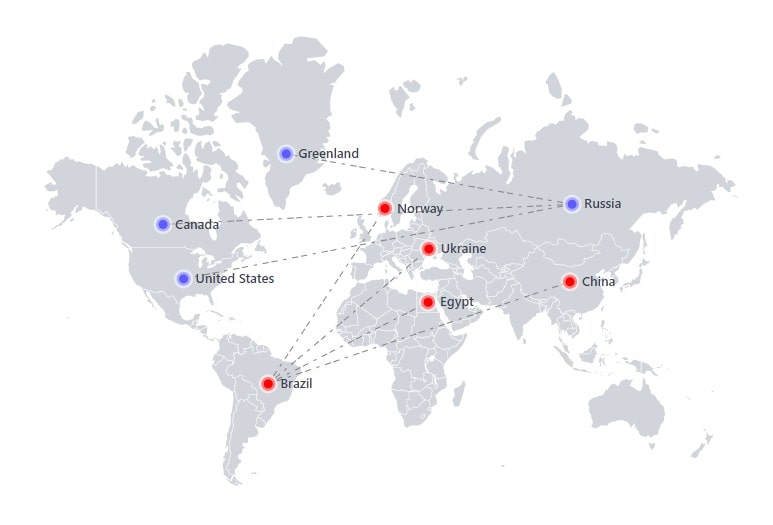
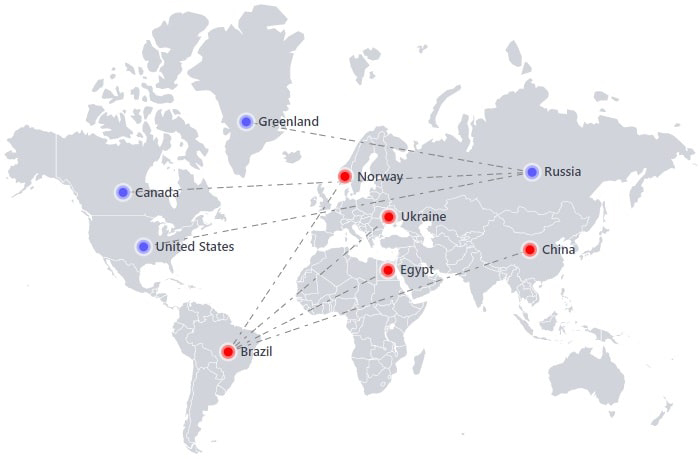
chore: update readme and jsvectormap photo sample

diff --git a/README.md b/README.md
@@ -1,53 +1,53 @@
+<p align="center">
+  <a href="https://themustafaomar.com/open-source/jsvectormap">
+    <img src="assets/images/jsvectormap.jpg" alt="Jsvectormap sample" width="500" />
+  </a>
+</p>
+
+<h3 align="center">Jsvectormap</h3>
+
+<p align="center">
+  A lightweight Javascript library for creating interactive maps and pretty data visualization.
+  <br>
+  <br>
+  <a href="https://themustafaomar.com/open-source/jsvectormap"><strong>Explore docs</strong></a>
+  .
+  <a href="https://github.com/themustafaomar/jsvectormap/issues/new"><strong>Report bug</strong></a>
+  ·
+  <a href="https://themustafaomar.com/open-source/jsvectormap"><strong>View demo</strong></a>
+  ·
+  <a href="https://github.com/themustafaomar/jsvectormap/archive/master.zip"><strong>Download</strong></a>
+</p>
+
 # Jsvectormap
-A lightweight Javascript library for creating interactive maps and pretty data visualization.
 
-This project is a deeply modified version of [jvectormap](https://github.com/bjornd/jvectormap)<br>
-This was created to help developers who aren't using jQuery in their projects.
+Bringing data to life with interactive maps
 
-Jsvectormap supports all modern brownsers including IE9+<br>
+This project is a deeply modified version of [jvectormap](https://github.com/bjornd/jvectormap) and was created to help developers who aren't using jQuery anymore in their projects.
 
-<strong><a href="https://3iw9b.csb.app">View Demo</a> | <a href="https://github.com/themustafaomar/jsvectormap/archive/master.zip">Download ZIP</a> | <a href="https://themustafaomar.com/open-source/jsvectormap/docs/introduction">Documentation</a></strong>
+Jsvectormap supports all modern brownsers including IE9+
 
+<a href="https://www.npmjs.com/package/jsvectormap"><img src="https://img.shields.io/npm/l/jsvectormap.svg?sanitize=true" alt="License"></a>
+<a href="https://npmcharts.com/compare/jsvectormap?minimal=true"><img src="https://img.shields.io/npm/dm/jsvectormap.svg?sanitize=true" alt="Downloads"></a>
+<img src="https://img.shields.io/npm/v/jsvectormap.svg?sanitize=true" alt="Version">
+<img src="https://img.shields.io/bundlephobia/min/jsvectormap" alt="Minified">
+<img src="https://img.shields.io/bundlephobia/minzip/jsvectormap" alt="Minizipped">
 
-<img src="assets/images/jsvectormap.jpg" />
+## What's interactive maps
 
-## Installation
+* Interactive maps are powerful tools for presentation.
+* The ability to create layers of information that can be shown or hidden at the click of a button on a region or maybe a marker.
+* Data can be quickly updated, and these updates made transparent to users. 
+* Zoom functions that allow users to focus on either the details of a particular region, or to gain a quick overview of a wider area.
+
+## Quick start
+
 Installing via npm
 ```js
 npm i jsvectormap
 ```
 
-### Download
-You can download the latest version from the Github: [Download](https://github.com/themustafaomar/jsvectormap/archive/master.zip) or clone the repository:
-```
-git clone https://github.com/themustafaomar/jsvectormap.git
-```
-
-### Using CDN links
-```html
-<link rel="stylesheet" href="https://unpkg.com/jsvectormap@1.2.0/dist/css/jsvectormap.min.css" />
-<script src="https://unpkg.com/jsvectormap"></script>
-<script src="https://unpkg.com/jsvectormap/dist/maps/world.js"></script>
-```
-
-## Usage
-```html
-<link rel="stylesheet" href="dist/css/jsvectormap.min.css" />
-<script src="dist/js/jsvectormap.min.js"></script>
-<script src="dist/maps/world.js"></script>
-
-<div id="map"></div>
-
-<script>
-  var map = new jsVectorMap({
-    selector: '#map',
-    map: 'world',
-  });
-</script>
-```
-
-#### Using CLI
-If you're using webpack or something like that you'll need to import the map you want to work with after importing the library.
+import your preferred map you want to work with, after importing the `jsvectormap`
 
 ```js
 @import 'jsvectormap'
@@ -59,25 +59,12 @@ const map = new jsVectorMap({
 })
 ```
 
-**Sass**
-if you're using Sass you can overwite default style with Sass variables .
-Take a look at [this file](https://github.com/themustafaomar/jsvectormap/blob/master/src/scss/jsvectormap.scss) to know about all possible variables.
-
-```scss
-$tooltip-bg-color: #3a3d4c;
-$tooltip-font-family: Roboto, sans-serif;
-
-@import 'jsvectormap'
-```
-
-## Related projects
-[vuevectormap](https://github.com/themustafaomar/vuevectormap) a Vue wrapper component.
-
 ## Contributions
 Your contributions always **welcome**
-1) Please don't update the build files when sending pull requests, modifications should be committed within src/js/*.
 
-### Developing
+* Please don't update the build files when sending pull requests, modifications should be committed within src/js/*.
+
+## Developing
 To work on the code, you will require the following:
 * this repository
 * A node environment with a version prior to v15 due to [dependency constraints](https://github.com/sass/node-sass/issues/2965#issuecomment-717620196)
@@ -100,12 +87,11 @@ npm run-script build && npm run dev
 your-browser http://localhost:9000/samples/
 ```
 
-#### Tips
+## Tips
 * If you need to expose the webpack runtime (such as if you are developing inside a container), you will need to modify `webpack.config.js`
   * Set [devServer.host](https://webpack.js.org/configuration/dev-server/#devserverhost) to the IP address you wish to expose (`0.0.0.0` for all addresses)
   * Set [devServer.allowedHosts](https://webpack.js.org/configuration/dev-server/#devserverallowedhosts) or [devServer.disableHostCheck](https://webpack.js.org/configuration/dev-server/#devserverdisablehostcheck) to permit access
 * When using `npm run dev`, changes made on the filesystem are immediately available on the `index.html` page. This is not the case for the samples directory.
-
 
 ## License
 jsvectormap licensed under MIT.
